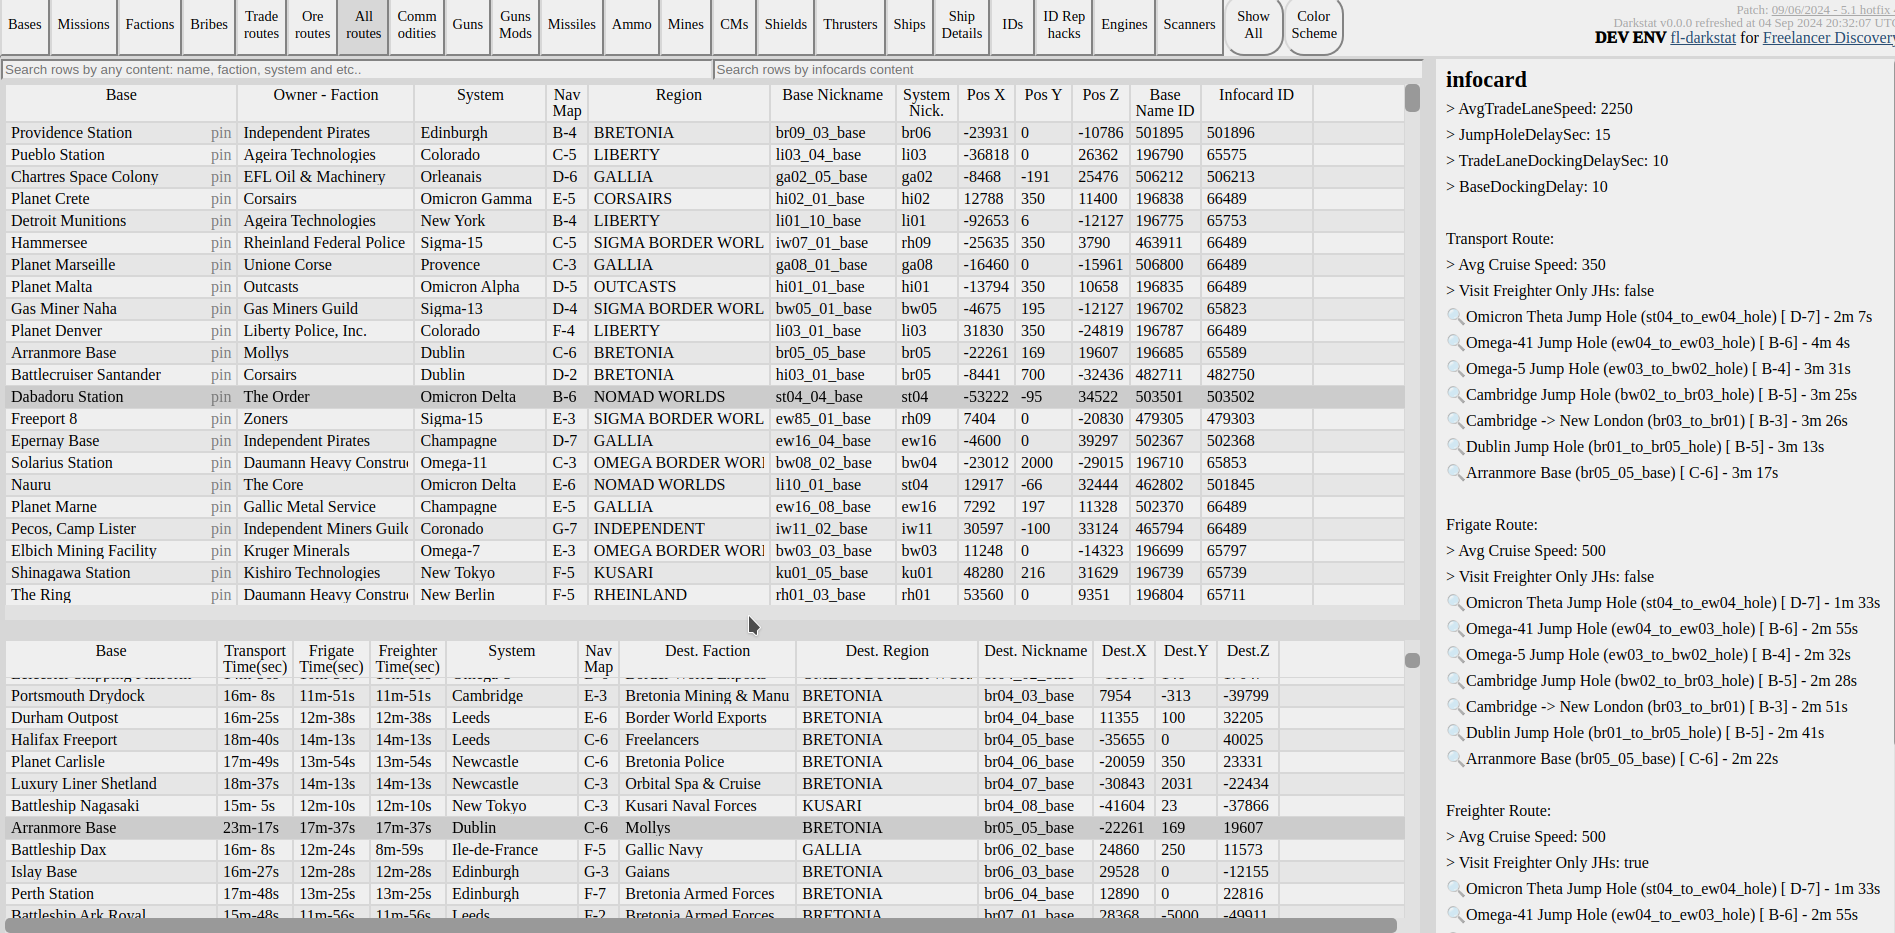
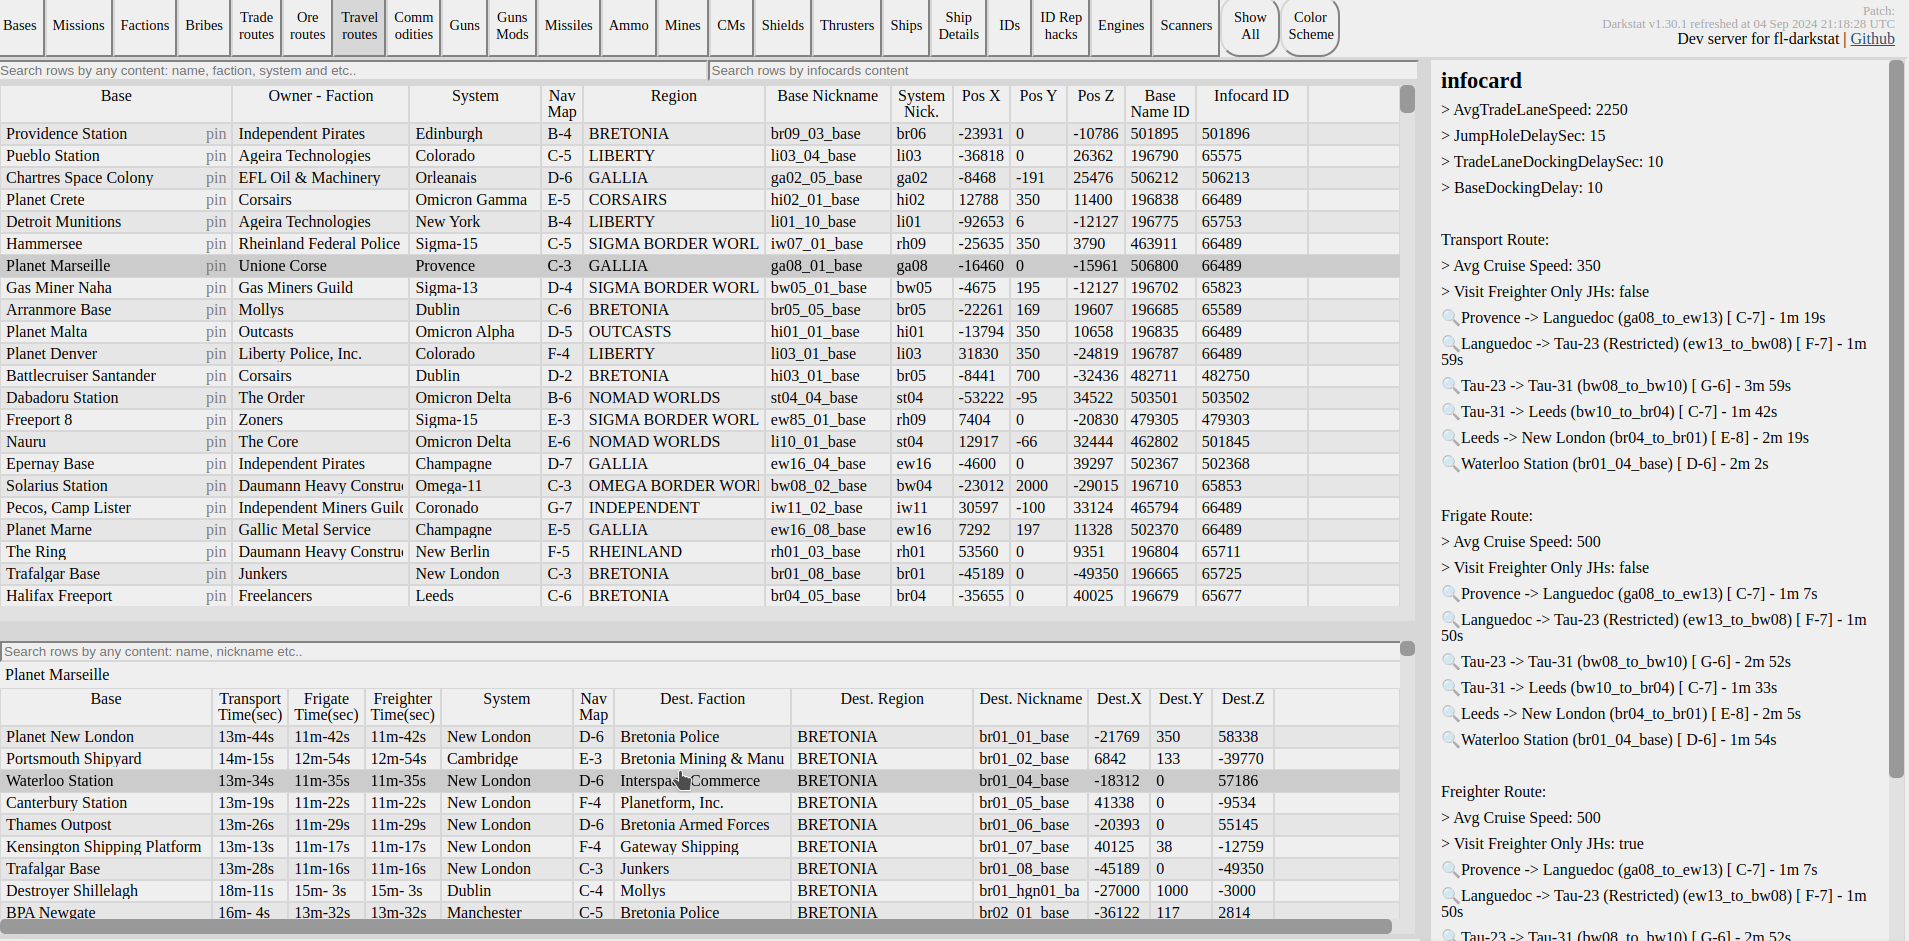
fix: to travel routes name

Changed region(s): [[0.0, 0.0, 1.0, 1.0], [0.7161, 0.0622, 0.8718, 0.2176]]

diff --git a/darkstat/linker/linker.go b/darkstat/linker/linker.go
@@ -730,11 +730,11 @@ func (l *Linker) Link() *builder.Builder {
 				front.BasesT(data.MiningOperations, front.BaseTabOres, front.ShowEmpty(true), disco_ids),
 			),
 			builder.NewComponent(
-				urls.AllRoutes,
+				urls.TravelRoutes,
 				front.BasesT(configs_export.FilterToUserfulBases(data.Bases), front.BaseAllRoutes, front.ShowEmpty(false), disco_ids),
 			),
 			builder.NewComponent(
-				front.AllItemsUrl(urls.AllRoutes),
+				front.AllItemsUrl(urls.TravelRoutes),
 				front.BasesT(data.Bases, front.BaseAllRoutes, front.ShowEmpty(true), disco_ids),
 			),
 		)

diff --git a/darkstat/front/urls/urls.go b/darkstat/front/urls/urls.go
@@ -11,7 +11,7 @@ const (
 	Bases           utils_types.FilePath = "bases.html"
 	Trades          utils_types.FilePath = "trades.html"
 	Asteroids       utils_types.FilePath = "Asteroids.html"
-	AllRoutes       utils_types.FilePath = "AllRoutes.html"
+	TravelRoutes    utils_types.FilePath = "TravelRoutes.html"
 	Missions        utils_types.FilePath = "missions.html"
 	Factions        utils_types.FilePath = "factions.html"
 	Rephacks        utils_types.FilePath = "rephacks.html"
